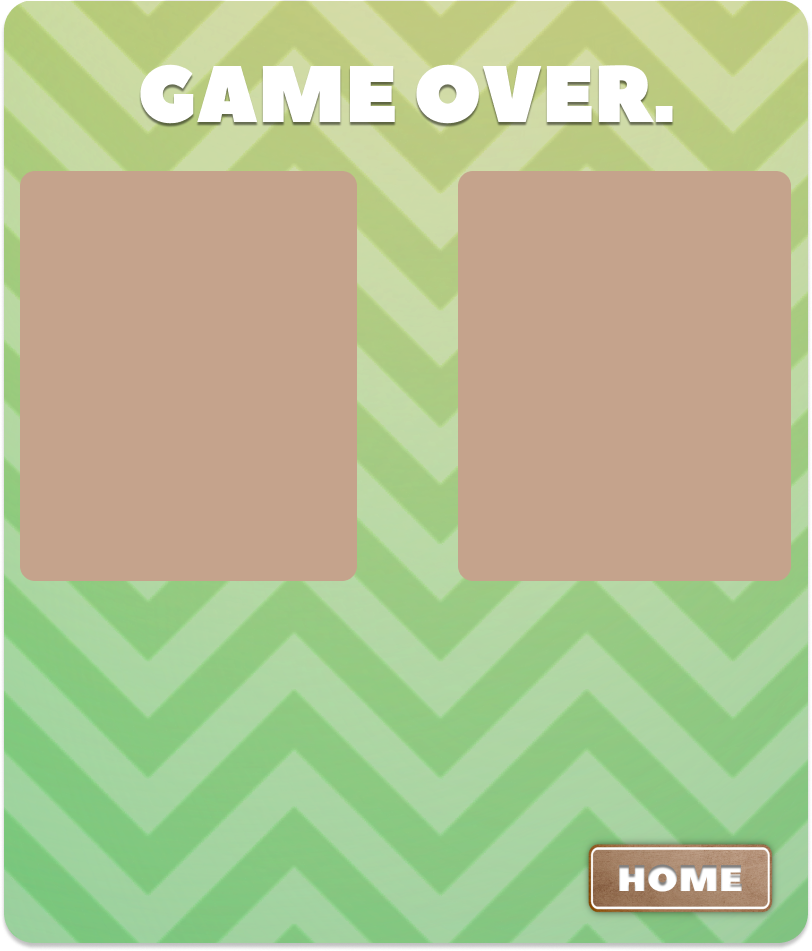
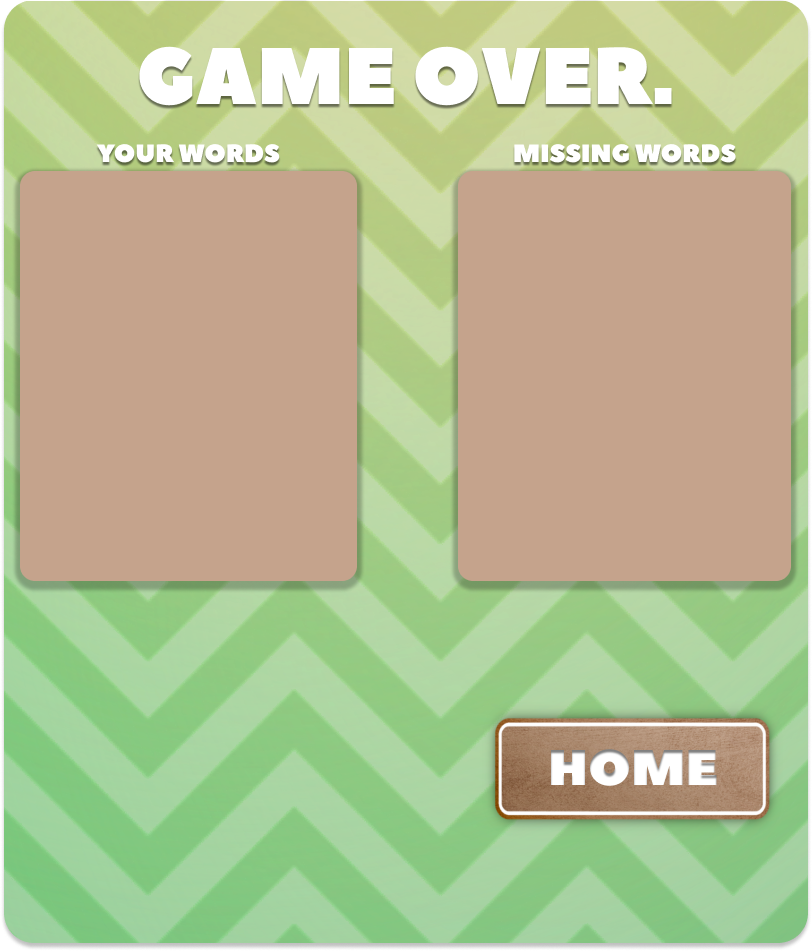
lettersLightingUp

diff --git a/gameEndScreen.py b/gameEndScreen.py
@@ -3,7 +3,7 @@ from cmu_graphics import *
 
 def drawGameEndScreen(app):
     # background and text
-    drawImage('images/endGameScreen.png', app.width / 2, app.height / 2, align='center')
+    drawImage('images/endGameScreen.png', app.width / 2, app.height / 2, align='center') # loaded full image instead of separate pngs for efficiency purposes
     if app.miniBoardActive:
         drawMiniBoard(app)
     
@@ -95,49 +95,113 @@ def drawScrollBar(app, x, y, height, totalItems, scrollOffset):
 #             y2 = miniTop + row2 * (miniCellSize + miniBorder) + miniBorder + miniCellSize / 2
 #             drawLine(x1, y1, x2, y2, fill="red", lineWidth=2)
 
-def drawMiniBoard(app):
-    # Mini board properties
-    miniBoardSize = 250  # Fixed size for the mini-board
-    # cellSize = miniBoardSize / app.boardLen
-    border = 12 - app.boardLen  # Adjust border for smaller cells
-    cellSize = (miniBoardSize - (app.boardLen + 1) * border) / app.boardLen    # Bottom-left position
+# def drawMiniBoard(app):
+#     # Mini board properties
+#     miniBoardSize = 275  # Fixed size for the mini-board
+#     # cellSize = miniBoardSize / app.boardLen
+#     border = 12 - app.boardLen  # Adjust border for smaller cells
+#     cellSize = (miniBoardSize - (app.boardLen + 1) * border) / app.boardLen    # Bottom-left position
 
-    boardLeft = 50
-    boardTop = app.height - miniBoardSize - 50  # Slight padding from bottom
+#     boardLeft = 50
+#     boardTop = app.height - miniBoardSize - 20  # Slight padding from bottom
 
-    # Draw black background for mini-board
-    drawRect(boardLeft, boardTop, miniBoardSize, miniBoardSize, fill='black')
+#     # Draw black background for mini-board
+#     drawRect(boardLeft, boardTop, miniBoardSize, miniBoardSize, fill='black')
 
-    # Draw the cells
+#     # Draw the cells
     
-    for row in range(app.boardLen):
-        for col in range(app.boardLen):
-            # Calculate cell coordinates
-            x0 = boardLeft + col * (cellSize + border) + border
-            y0 = boardTop + row * (cellSize + border) + border
-            x1 = x0 + cellSize
-            y1 = y0 + cellSize
+#     for row in range(app.boardLen):
+#         for col in range(app.boardLen):
+#             # Calculate cell coordinates
+#             x0 = boardLeft + col * (cellSize + border) + border
+#             y0 = boardTop + row * (cellSize + border) + border
+#             x1 = x0 + cellSize
+#             y1 = y0 + cellSize
 
-            # Draw cell background using the same images as the original board
-            drawImage("images/cell.png", x0, y0, width=cellSize, height=cellSize)
+#             # Draw cell background using the same images as the original board
+            
+#             drawImage("images/cell.png", x0, y0, width=cellSize, height=cellSize)
 
-            # Draw letter in the cell
-            drawLabel(app.board[row][col], (x0 + x1) / 2, (y0 + y1) / 2, size=12, bold=True, font='Helvetica')
+#             # Draw letter in the cell
+#             drawLabel(app.board[row][col], (x0 + x1) / 2, (y0 + y1) / 2, size=12, bold=True, font='Helvetica')
 
     # Draw red line for missed words animation
+    # if app.miniWordIndex < len(app.missingWords):
+    #     word = app.missingWordsList[app.miniWordIndex]
+    #     path = getWordPath(app.board, word)
+    #     drawLabel(f'Missing: {word}', boardLeft + miniBoardSize/2, boardTop - 15,
+    #               size=18, bold=True, align='center', fill='black', font = 'Peace Sans')
+        
+    #     # Animate the red line along the full path
+    #     if app.miniLineProgress < len(path):
+    #         for i in range(app.miniLineProgress):
+    #             row1, col1 = path[i]
+    #             row2, col2 = path[i + 1]
+
+    #             # calculate cell centers for red line
+    #             x1 = boardLeft + col1 * (cellSize + border) + border + cellSize / 2
+    #             y1 = boardTop + row1 * (cellSize + border) + border + cellSize / 2
+    #             x2 = boardLeft + col2 * (cellSize + border) + border + cellSize / 2
+    #             y2 = boardTop + row2 * (cellSize + border) + border + cellSize / 2
+
+    #             drawLine(x1, y1, x2, y2, fill='red', lineWidth=2)
+
+def drawMiniBoard(app):
+    miniBoardSize = 275
+    border = 12 - app.boardLen  # adjust border for smaller cells
+    cellSize = (miniBoardSize - (app.boardLen + 1) * border) / app.boardLen
+
+    boardLeft = 50
+    boardTop = app.height - miniBoardSize - 20 
+
+    # draw black background for mini-board
+    drawRect(boardLeft, boardTop, miniBoardSize, miniBoardSize, fill='black')
+
+    # iterates through every word
     if app.miniWordIndex < len(app.missingWords):
         word = app.missingWordsList[app.miniWordIndex]
         path = getWordPath(app.board, word)
-        drawLabel(f"Word: {word}", boardLeft + miniBoardSize + 30, boardTop + miniBoardSize / 2,
-                  size=15, bold=True, align="left", fill="black", font = 'Peace Sans')
+
+        # draw cells depending green along with red line
+        for i in range(app.miniLine + 1):
+            if i < len(path):
+                row, col = path[i]
+                # specific cell coordinates for the path
+                x0 = boardLeft + col * (cellSize + border) + border
+                y0 = boardTop + row * (cellSize + border) + border
+                x1 = x0 + cellSize
+                y1 = y0 + cellSize
+
+                # draw highlighted cell 
+                drawImage("images/cellCorrect.png", x0, y0, width=cellSize, height=cellSize)
+                drawLabel(app.board[row][col], (x0 + x1) / 2, (y0 + y1) / 2, size=12, bold=True, font='Helvetica')
+
+        # draw remaining cells normally
+        for row in range(app.boardLen):
+            for col in range(app.boardLen):
+                if (row, col) not in path[:app.miniLine + 1]:
+                    x0 = boardLeft + col * (cellSize + border) + border
+                    y0 = boardTop + row * (cellSize + border) + border
+                    x1 = x0 + cellSize
+                    y1 = y0 + cellSize
+                    drawImage("images/cell.png", x0, y0, width=cellSize, height=cellSize)
+                    drawLabel(app.board[row][col], (x0 + x1) / 2, (y0 + y1) / 2, size=12, bold=True, font='Helvetica')
+
+    # draw the missing word label
+    if app.miniWordIndex < len(app.missingWords):
+        drawLabel(f'Missing: {word}', boardLeft + miniBoardSize / 2, boardTop - 15,
+                  size=18, bold=True, align='center', fill='black', font='Peace Sans')
+
+        word = app.missingWordsList[app.miniWordIndex]
+        path = getWordPath(app.board, word)
+        drawLabel(f'Missing: {word}', boardLeft + miniBoardSize/2, boardTop - 15,
+                  size=18, bold=True, align='center', fill='black', font = 'Peace Sans')
         
-        # Animate the red line along the full path
-        if app.miniLineProgress < len(path):
-            for i in range(app.miniLineProgress):
+        # animate the red line along the full path
+        if app.miniLine < len(path):
+            for i in range(app.miniLine):
                 row1, col1 = path[i]
                 row2, col2 = path[i + 1]
-                
-
 
                 # calculate cell centers for red line
                 x1 = boardLeft + col1 * (cellSize + border) + border + cellSize / 2
@@ -198,6 +262,7 @@ def searchPath(board, word, row, col, path, seen, directions):
 #                 if path:
 #                     # print(f"Word: {word}, Path: {path}")
 #                     return path
+
 def getWordPath(board, word):
     directions = [(-1, 0), (1, 0), (0, -1), (0, 1), (-1, -1), (-1, 1), (1, -1), (1, 1)]
     for row in range(len(board)):

diff --git a/main.py b/main.py
@@ -33,11 +33,6 @@ def loadPlayerData(filePath):
             nameDict[name] = (score, boardLen)
     return nameDict
 
-def storeData(app):
-    # locally update dictionary
-    pass
-    # add the csv file 
-
 def onAppStart(app):
 
     app.screen = "home"
@@ -55,7 +50,8 @@ def onAppStart(app):
     # buttons
     app.homeButtonList = [Button(250, 550, 350, 460, 'nameInput'), Button(250, 550, 495, 585, 'scoreboard'),
                       Button(250, 550, 625, 720, 'customSize'), Button(249, 541, 751, 845, 'exitScreen')]
-    app.homeButton = Button(216, 596, 678, 816, 'home')
+    # home button on endGameScreen
+    app.homeButton = Button(496, 758, 709, 791, 'home')
     # back buttons
     app.backButton = Button(594, 778, 838, 900, 'home')
     app.backButtonInput = Button(27, 215, 22, 82, 'home')
@@ -113,12 +109,8 @@ def onAppStart(app):
     app.missingWordsList = []
     app.miniBoardActive = False
     app.stepCounter = 0
-    app.miniWordIndex = 0  # Track which word is being animated
-    app.miniLineProgress = 0  # Track line progress for animation
-    # app.foundWordPaths = {}  # Store paths for user-found words
-
-    # for word in app.userFoundWords:
-    #     app.foundWordPaths[word] = getWordPath(app.board, word)
+    app.miniWordIndex = 0  # word being animated
+    app.miniLine = 0  # line progress 
 
 # ------------------------------------------------------- SIZE ADJUSTMENT -------------------------------------------------------- #
 
@@ -159,18 +151,8 @@ def onMousePress(app, mouseX, mouseY):
         for Button in app.homeButtonList:
             if Button.isClicked(mouseX, mouseY):
                 app.screen = Button.targetScreen
-                # if app.screen == 'customSize':
-                #     app.custom = True
-                # else:
-                #     app.custom = False
                 print(app.screen)
 
-        # if 250 <= mouseX <= 550 and 350 <= mouseY <= 460 and app.screen:
-        #     app.screen = 'nameInput'
-        # elif 250 <= mouseX <= 550 and 495 <= mouseY <= 585:
-        #     app.screen = 'scoreboard'
-        # elif 250 <= mouseX <= 550: and 314 <= mouse Y <= 457:
-        #     app.screen = 'customSize'
 
     elif app.screen == 'gameEndScreen':
 
@@ -178,9 +160,7 @@ def onMousePress(app, mouseX, mouseY):
             app.screen = app.homeButton.targetScreen
             app.miniBoardActive = False
             app.miniWordIndex = 0
-            app.miniLineProgress = 0
-        # if 216 <= mouseX <= 596 and 678 <= mouseY <= 816:
-        #     app.screen = 'home'
+            app.miniLine = 0
 
     elif app.screen == 'scoreboard':
         if app.backButton.isClicked(mouseX, mouseY):
@@ -313,9 +293,13 @@ def onKeyPress(app, key):
         if key == 'h' and not app.hintGreen:
             if app.hintsRemaining > 0:
                 remainingWords = [word for word in app.boardWords if word not in app.userFoundWords]
-                app.hint = random.choice(remainingWords) # CITE THIS BOI
-                app.hintsRemaining -=1 
-                app.letters = 0
+                if app.hintsRemaining > 0 and remainingWords:  # Ensure hints are available and there are words left
+                    app.hint = random.choice(remainingWords)
+                    app.hintsRemaining -= 1
+                    app.letters = 0
+                # app.hint = random.choice(remainingWords) # CITE THIS BOI
+                # app.hintsRemaining -=1 
+                # app.letters = 0
             else:
                 app.hint = ''
                 
@@ -396,18 +380,13 @@ def onStep(app):
                 path = getWordPath(app.board, word)
 
                 # Animate the red line through the word's path
-                if path and app.miniLineProgress < len(path) - 1:
-                    app.miniLineProgress += 1
+                if path and app.miniLine < len(path) - 1:
+                    app.miniLine += 1
                 else:
                     # Move to the next missed word
                     app.miniWordIndex += 1
-                    app.miniLineProgress = 0
+                    app.miniLine = 0
                     
-# def updateMissedWords(app):
-#     # Filter missed words to include only those with length 3 or more
-#     app.missedWords = [word for word in app.boardWords if word not in app.userFoundWords and len(word) >= 3]
-#     app.miniBoardActive = True
-
 
 def savePlayerData(filePath, nameDict):
     with open(filePath, 'w', newline='') as file:

diff --git a/boardgenerator.py b/boardgenerator.py
@@ -10,6 +10,10 @@ def generateBoard(boardLen):
     return board
 
 def generateValidBoard(legalWords, minWords=80):
+    if app.boardLen == 2:
+        minWords = 5
+    if app.boardLen == 3:
+        minWords = 40
     while True:
         board = generateBoard(app.boardLen)
         valid, foundWords = isLegalBoard(board, legalWords, minWords)
@@ -24,6 +28,7 @@ def drawBoard(app):
     cellCenters = [[None for _ in range(totalCells)] for _ in range(totalCells)] # for the red line
 
     # draws background 
+    # loaded full image instead of separate assets in CMU graphics for efficiency purposes
     drawImage('images/boardbackground.png', app.width/2, app.height/2, align = "center") # designed in figma: https://www.figma.com/design/MdZN6ojTAYLTDaIlLjcJkc/Wordhunt---roger?node-id=0-1&node-type=canvas&t=Hb5hfmV195ld3ymW-0
     
     # draws black board background for border

diff --git a/drawNameInput.py b/drawNameInput.py
@@ -1,11 +1,9 @@
 from cmu_graphics import *
 
 def drawNameInputScreen(app):
-    drawImage('images/nameInput.png', app.width/2, app.height/2, align = 'center')
+    drawImage('images/nameInput.png', app.width/2, app.height/2, align = 'center') 
 
     # input box
     drawRect(app.width / 2 - 150, app.height / 2 - 30, 300, 60, fill="white", border="black")
     drawLabel(app.playerName, app.width / 2, app.height / 2, size=30, font = 'Peace Sans')
 
-def drawDifficultyInputScreen(app):
-    pass

diff --git a/exitScreen.py b/exitScreen.py
@@ -2,4 +2,3 @@ from cmu_graphics import *
 
 def drawExitScreen(app):
     drawImage('images/exitScreen.png', app.width/2, app.height/2, align = 'center')
-    
